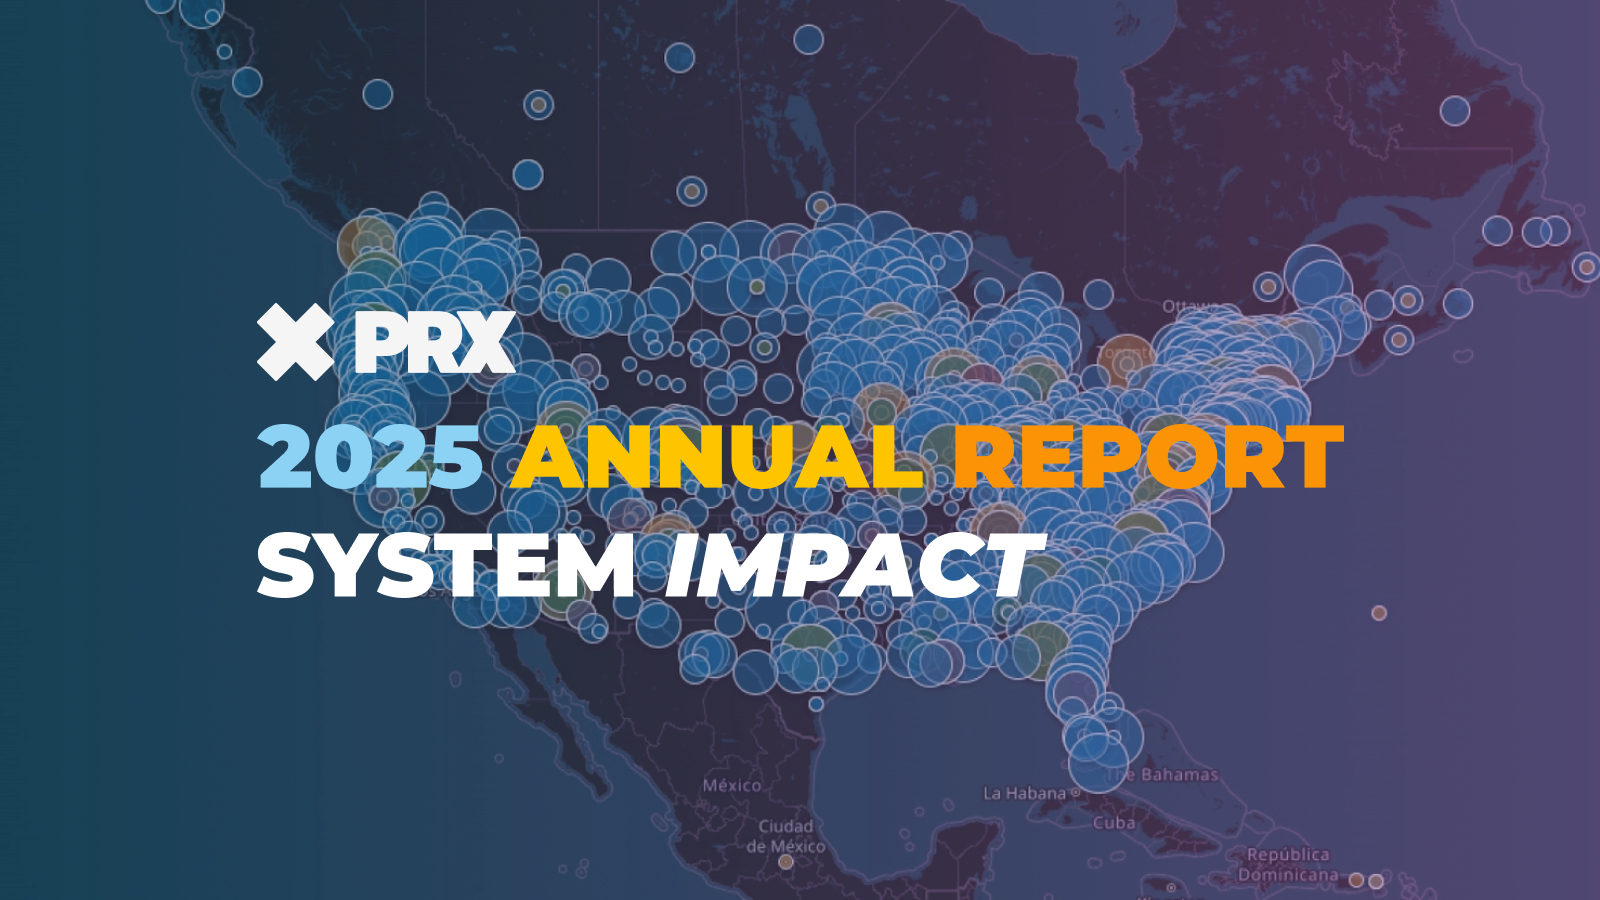
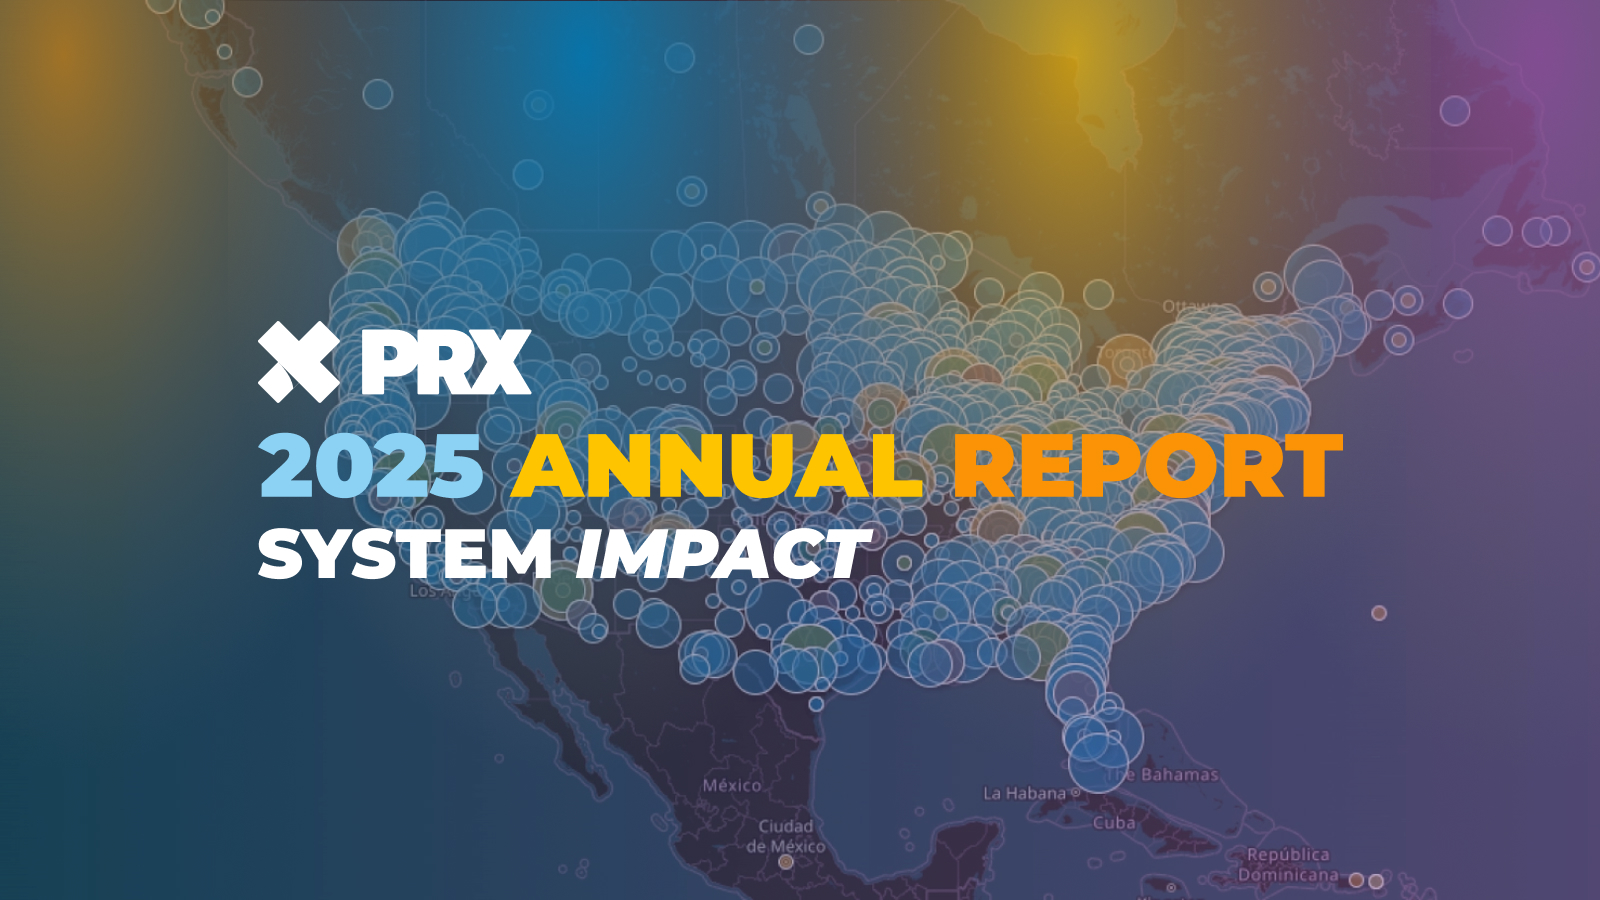
update og:image to match new hero

diff --git a/index.html b/index.html
@@ -5,7 +5,7 @@
 title: PRX Annual Report 2025
 layout: home
 image:
-  path: /assets/img/og-image-2025.jpg
+  path: /assets/img/og-image-2025b.jpg
 ---
 <h2>2025 at PRX</h2>
 <p>PRX stands at the nexus of innovation that undergirds the future of the public media system. In a year that has heralded the most dramatic shifts since the Public Broadcasting Act of 1967 was signed into law, PRX remains dedicated to building the infrastructure and portfolio that creators and stations need to share meaningful, empathetic, and resilient storytelling that will serve audiences far into the future. This work to uplift media made in the public interest is only possible because of the support of dedicated listeners, supporters and partners — <em>thank you</em>.</p>
